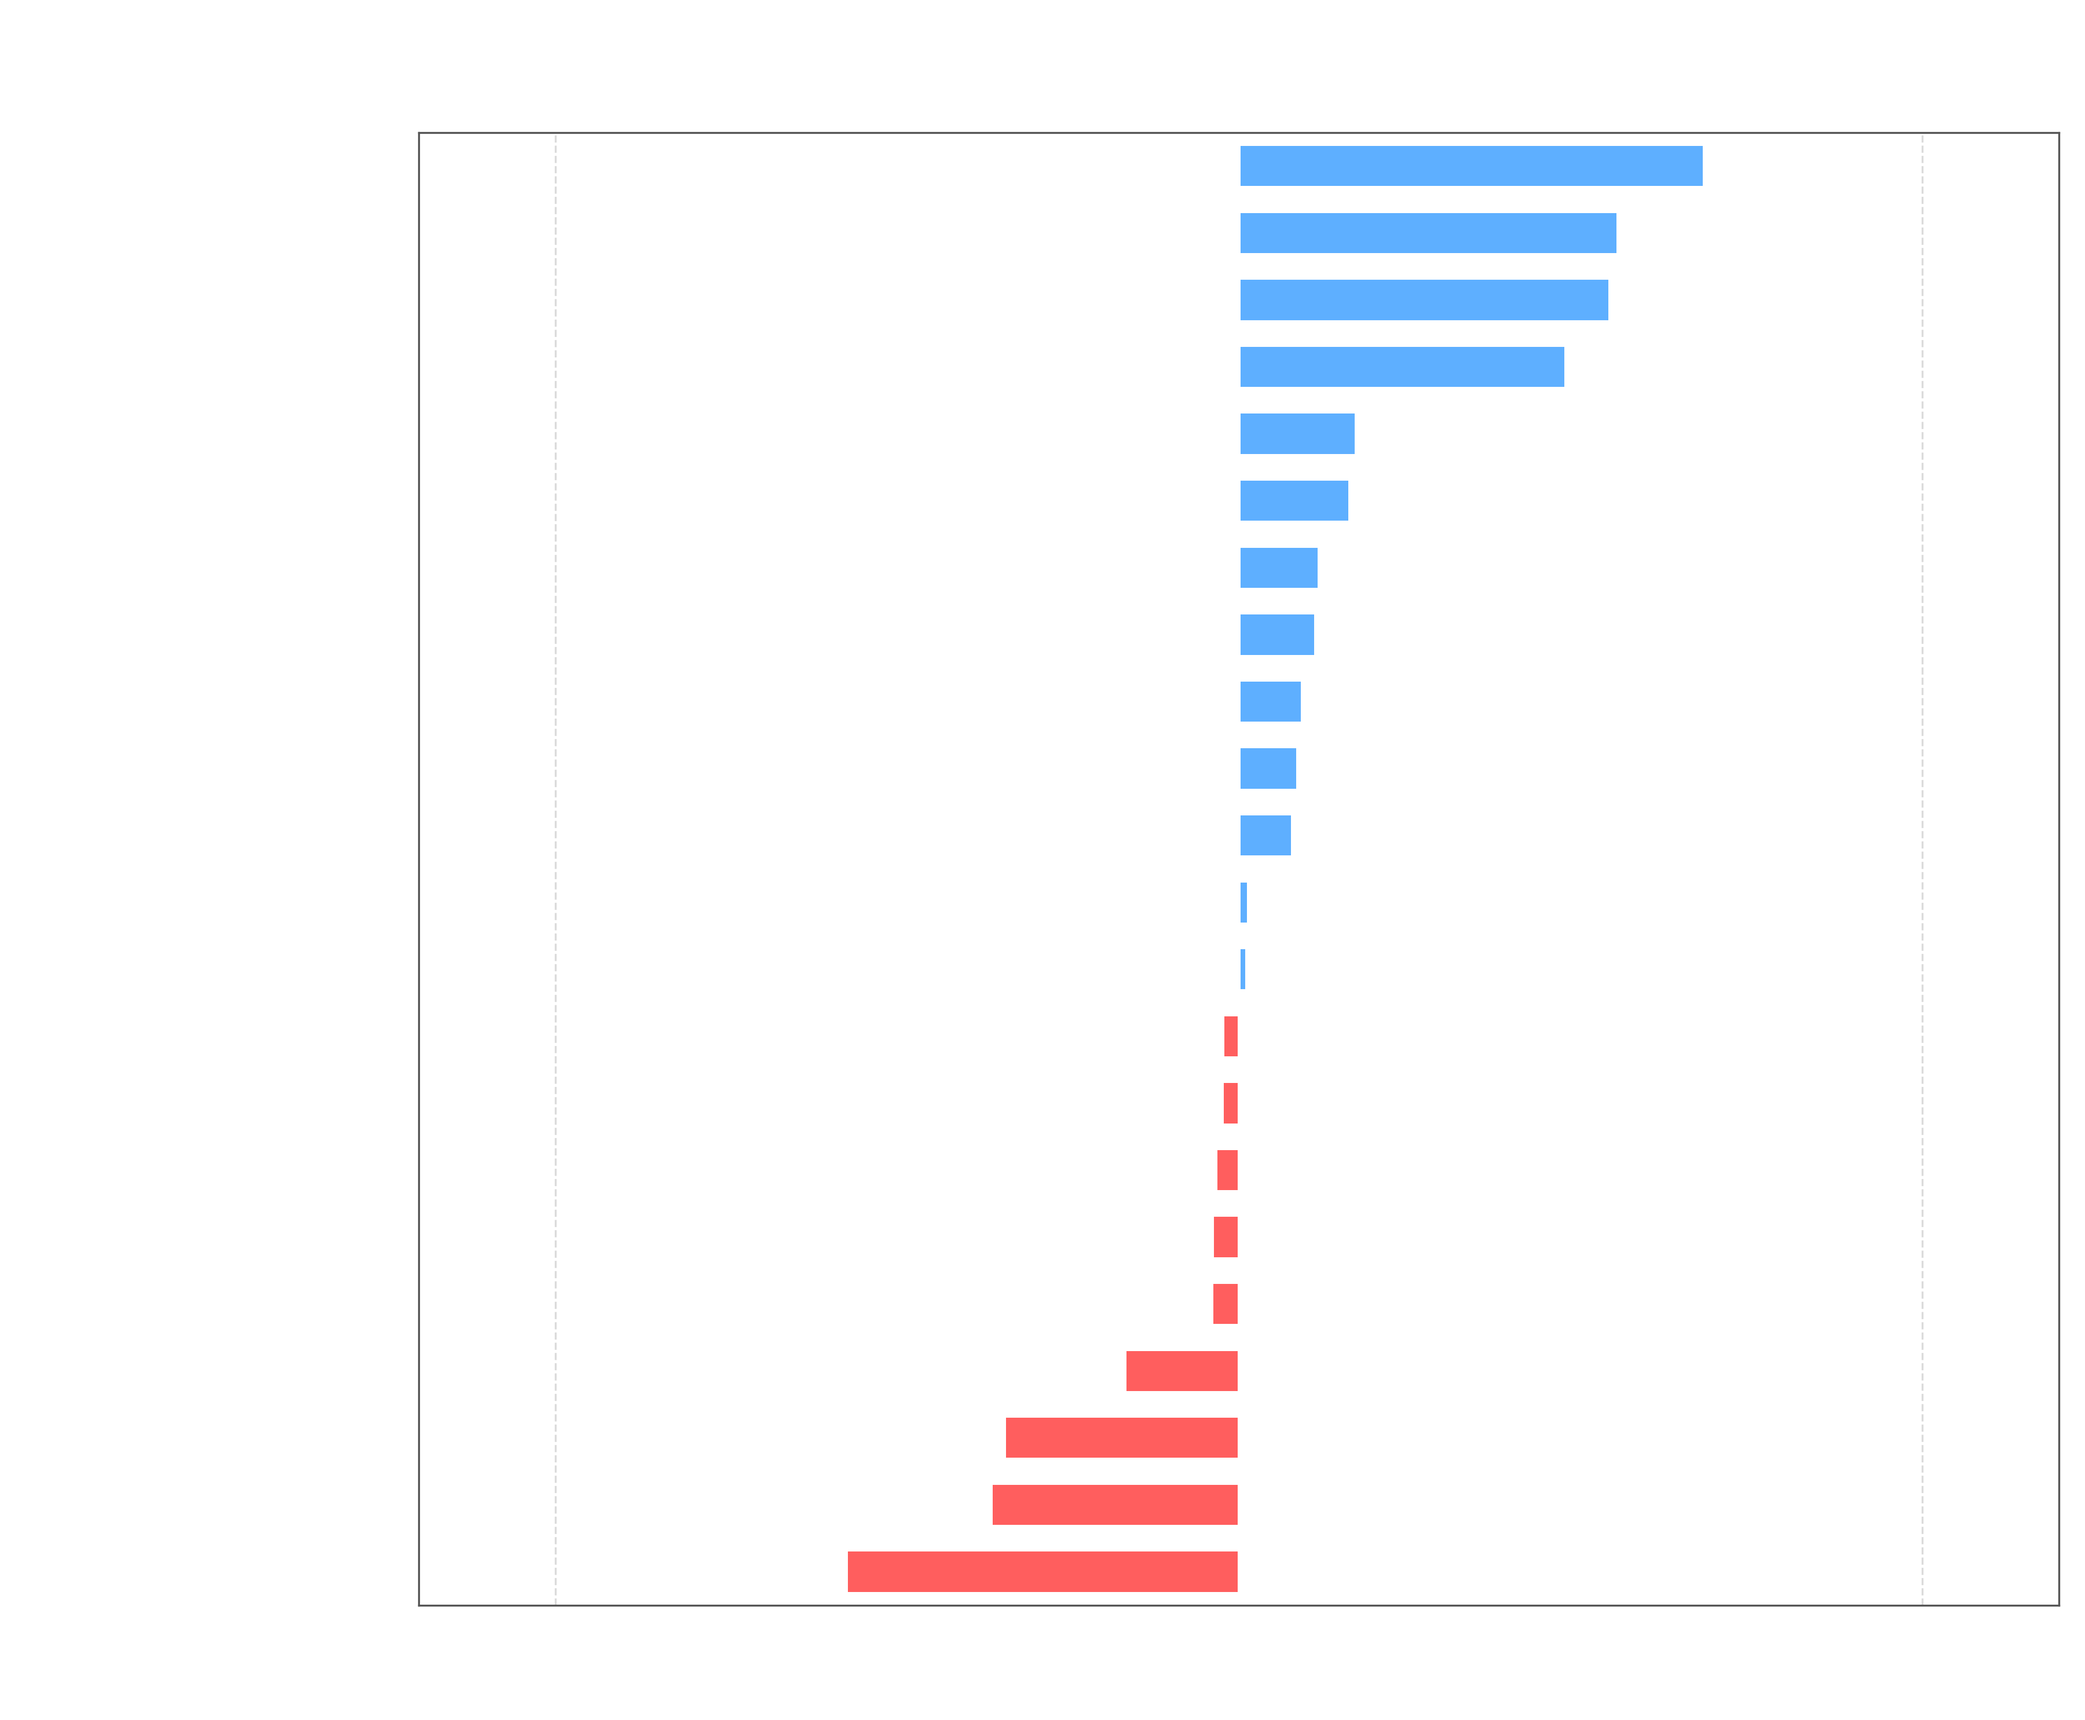
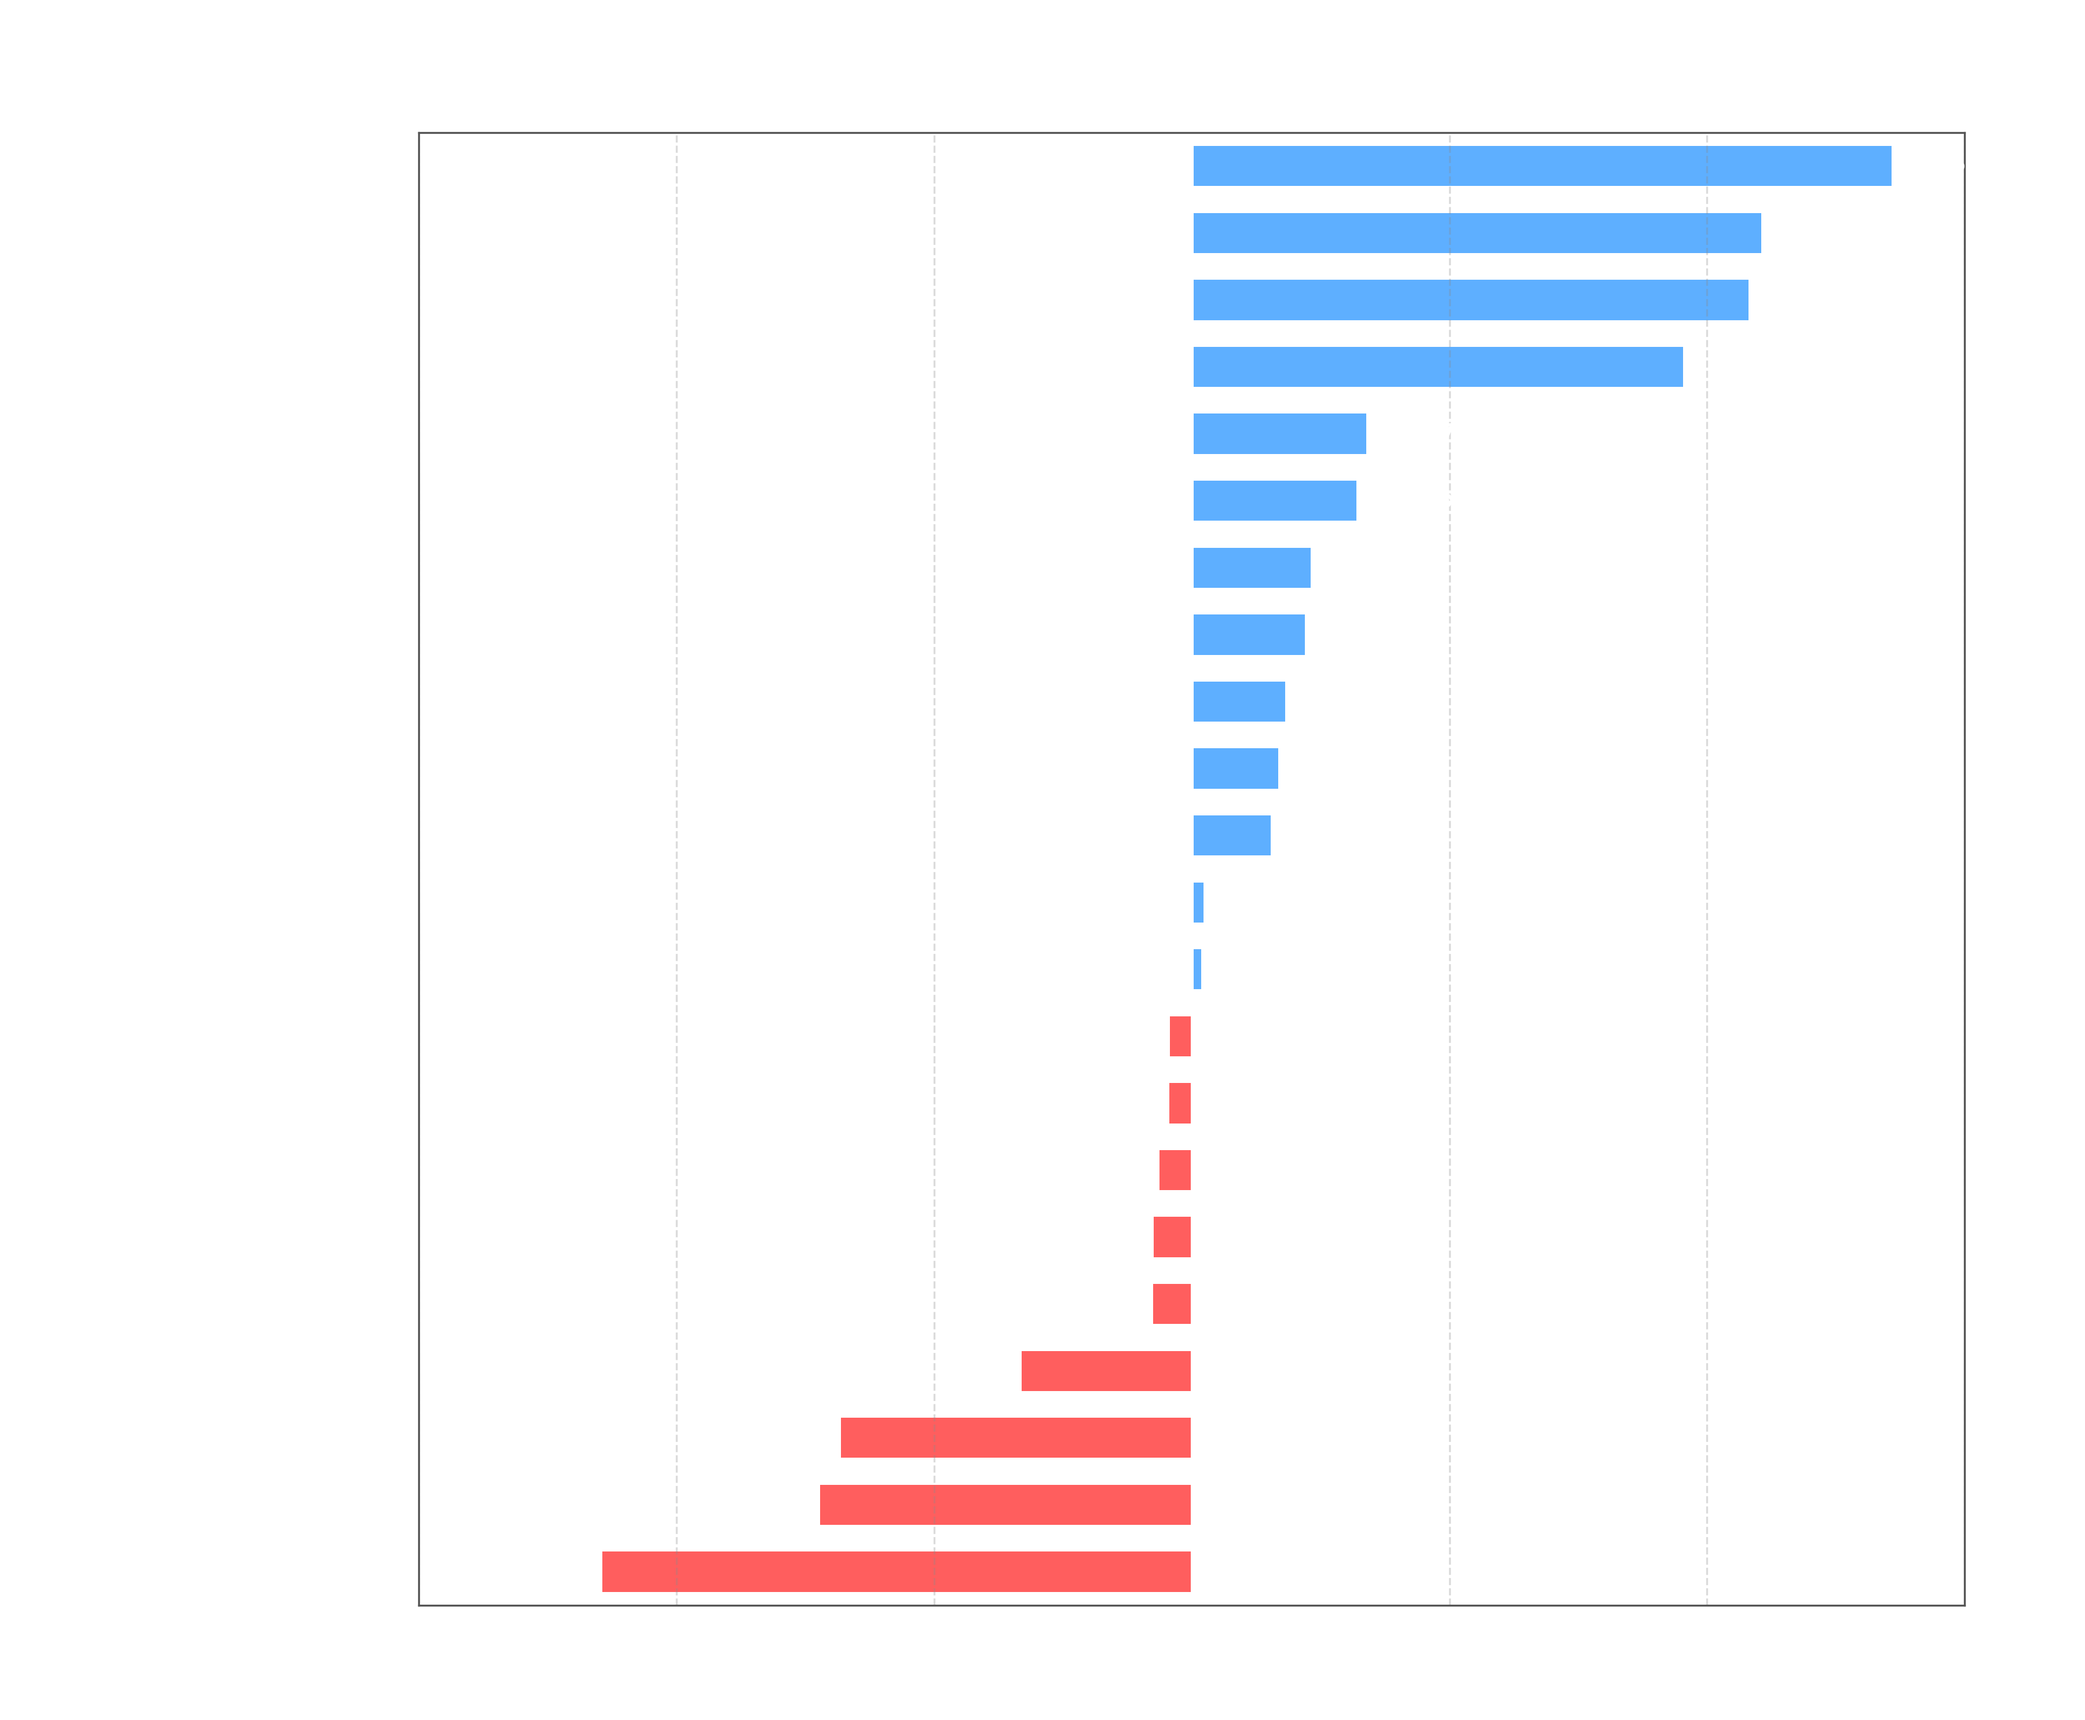
updating geometric graph

Changed region(s): [[0.28, 0.5886, 0.5911, 0.9293], [0.56, 0.062, 0.6222, 0.4956], [0.7467, 0.062, 0.9022, 0.2478]]

diff --git a/PerformanceCharts/geometric.py b/PerformanceCharts/geometric.py
@@ -1,7 +1,7 @@
 #!/usr/bin/env python3
 """
 Generate a geometric mean relative performance comparison chart between CustomLinkedHashMap and JDK LinkedHashMap.
-Compatible with wide-format JMH CSV performance reports.
+Compatible with wide-format JMH CSV performance reports. Capped at 1.75x on both sides.
 """
 
 import matplotlib.pyplot as plt
@@ -51,15 +51,16 @@ for b in benchmarks:
     g_custom = gmean(custom_vals)
     g_jdk = gmean(jdk_vals)
 
-    # Correct logic:
-    # If Custom is faster (g_custom < g_jdk), custom speedup factor is g_jdk / g_custom -> map to POSITIVE side (Right: Custom Faster)
-    # If JDK is faster (g_jdk < g_custom), JDK speedup factor is g_custom / g_jdk -> map to NEGATIVE side (Left: JDK Faster)
     if g_custom < g_jdk:
         speedup = g_jdk / g_custom
+        # Clip speedup factor at 1.75 max
+        speedup = min(speedup, 1.75)
         ratios.append(speedup - 1)
         colors.append(custom_win_color)
     else:
         speedup = g_custom / g_jdk
+        # Clip speedup factor at 1.75 max
+        speedup = min(speedup, 1.75)
         ratios.append(-(speedup - 1))
         colors.append(jdk_win_color)
 
@@ -75,12 +76,9 @@ sorted_ratios = [ratios[idx] for idx in sorted_indices]
 sorted_labels = [labels[idx] for idx in sorted_indices]
 sorted_colors = [colors[idx] for idx in sorted_indices]
 
-min_ratio = min(sorted_ratios)
-max_ratio = max(sorted_ratios)
-
-# Extra margin on sides so annotations fit cleanly
-left_limit = min(min_ratio - 0.4, -1.2)
-right_limit = max(max_ratio + 0.4, 1.2)
+# Explicitly max out x-axis at 1.75x (-0.75 to 0.75)
+left_limit = -0.75
+right_limit = 0.75
 
 fig_height = max(6, len(sorted_labels) * 0.45)
 fig, ax = plt.subplots(figsize=(12, fig_height), facecolor='none')
@@ -97,18 +95,10 @@ ax.axvline(x=0, color='#ffffff', linewidth=1.2)
 
 ax.set_xlim(left_limit, right_limit)
 
-ticks = []
-for t in [-4.0, -3.0, -2.0, -1.0]:
-    if t >= left_limit:
-        ticks.append(t)
-ticks.append(0.0)
-for t in [1.0, 2.0, 3.0, 4.0]:
-    if t <= right_limit:
-        ticks.append(t)
-
+ticks = [-0.75, -0.5, -0.25, 0.0, 0.25, 0.5, 0.75]
 ax.set_xticks(ticks)
 ax.set_xticklabels(
-    [f'{abs(t) + 1:.1f}x' if abs(t) > 0.05 else 'Tie' for t in ticks],
+    ['1.75x JDK', '1.50x', '1.25x', 'Tie', '1.25x', '1.50x', '1.75x Custom'],
     color='#ffffff',
     fontsize=11,
 )
@@ -137,7 +127,7 @@ for idx, (bar, r) in enumerate(zip(bars, sorted_ratios)):
             color='#ffffff',
             fontsize=9,
             fontweight='bold',
-        )
+            )
     else:
         ax.text(
             r - 0.02,
@@ -148,11 +138,11 @@ for idx, (bar, r) in enumerate(zip(bars, sorted_ratios)):
             color='#ffffff',
             fontsize=9,
             fontweight='bold',
-        )
+            )
 
 ax.set_title(
     (
-        'Overall Relative Performance Comparison (Custom vs JDK)\n(Geometric Mean Across All Sizes)'
+        'Overall Relative Performance Comparison (Custom vs JDK)\n(Geometric Mean Across All Sizes - Capped at 1.75x)'
     ),
     fontsize=14,
     fontweight='bold',
@@ -160,7 +150,7 @@ ax.set_title(
     color='#ffffff',
 )
 ax.set_xlabel(
-    '← JDK Faster  |  Relative Speedup Factor  |  Custom Faster →',
+    '← JDK Faster  |  Relative Speedup Factor (Max 1.75x)  |  Custom Faster →',
     fontsize=12,
     labelpad=10,
     color='#ffffff',
@@ -175,4 +165,4 @@ for spine in ax.spines.values():
 plt.tight_layout()
 plt.savefig('geometric.png', dpi=300, transparent=True)
 plt.close()
-print('Generated corrected geometric comparison graph excluding putIfAbsent successfully!')
+print('Generated 1.75x-capped geometric comparison graph successfully!')
